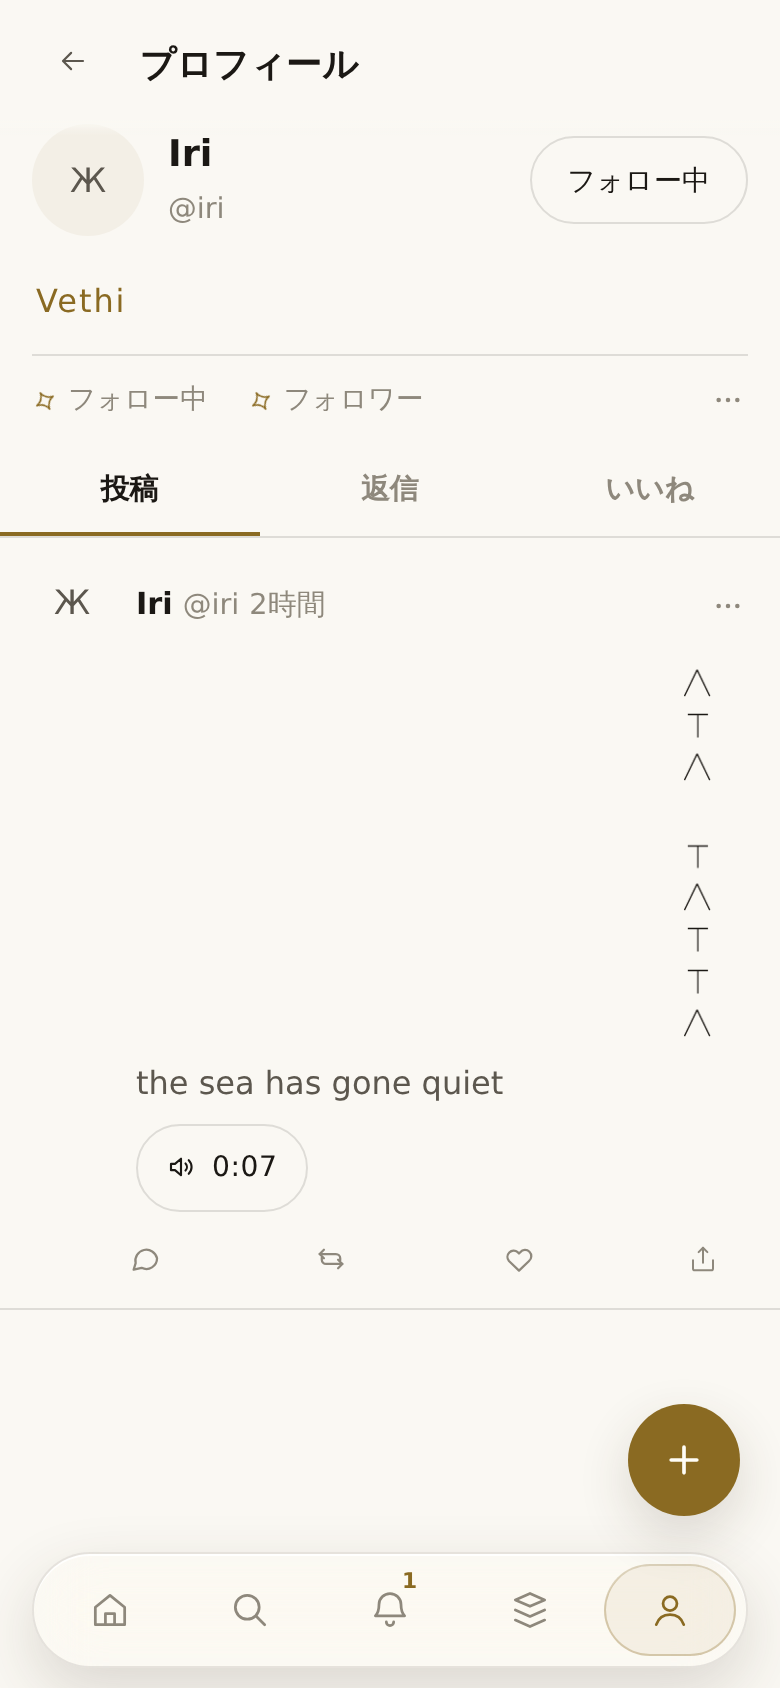
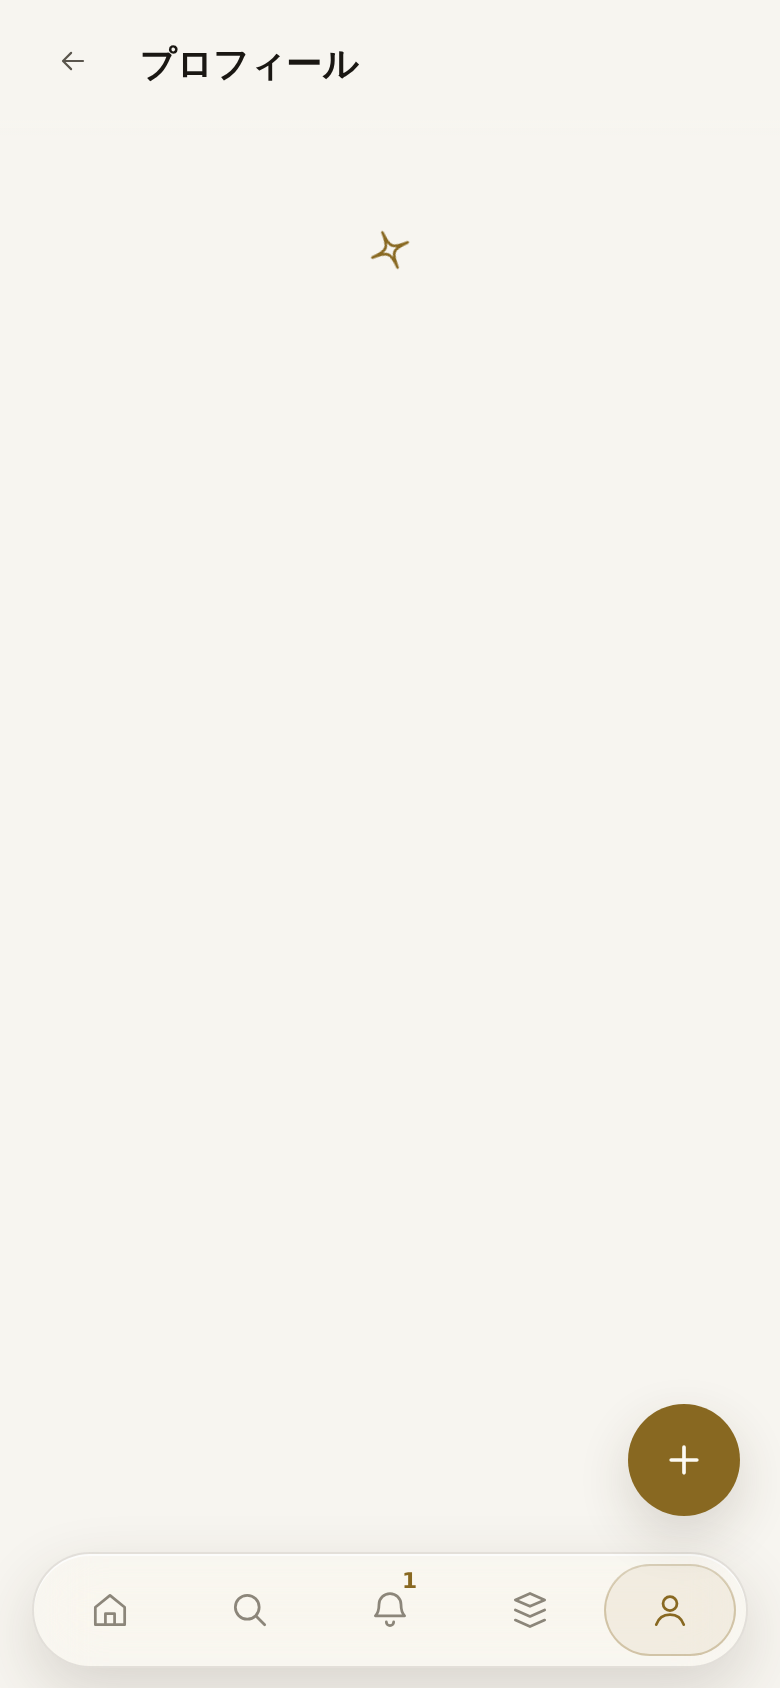
19: follow は金の塗りのまま、編集だけ枠

diff --git a/www/index.html b/www/index.html
@@ -722,15 +722,15 @@ canvas.pkc{width:34px;height:34px;display:block}
    and the second one set no `display`, so it inherited `flex` from this one
    and every word on the page stayed in a column beside the face. */
 .meedit{flex:0 0 auto;min-height:44px;padding:0 18px;border-radius:999px;
-        border:1px solid var(--gold);background:none;color:var(--gold);
+        border:1px solid var(--gold);background:var(--gold);color:var(--onGold);
         font-family:inherit;font-size:.88rem}
 .meedit:active{opacity:.85}
-/* 「編集のボタンだけ金◉なの気になる」→「枠だけで。」 OWNER 2026-09-05: this
-   is the profile's own Edit and, on somebody else's profile, Follow before
-   you do -- both the thing to press, both gold now in outline rather than
-   fill. Following IT is still the ground's own colour once you do, because
-   then it is a state and the press is the undo -- the two are told apart by
-   colour, gold against muted, and neither is filled any more. */
+/* 「フォロー前は金でいいんだけど何でそこ勝手に変えた」 OWNER 2026-09-05:
+   Follow, before you do, is the gold fill it has always been -- it is the one
+   thing to press on somebody else's page. The profile's own Edit is not that:
+   it wears `edit` and is the outline alone. Following is the ground's own
+   colour once you do, because then it is a state and the press is the undo. */
+.meedit.edit{background:none;color:var(--gold)}
 .meedit.on{background:none;color:var(--tx);border-color:var(--line)}
 .phandle{overflow:hidden;text-overflow:ellipsis;white-space:nowrap;min-width:0}
 /* The ... and the menu that hangs off it. The wrapper is what the menu is

diff --git a/www/me.js b/www/me.js
@@ -580,7 +580,7 @@ function meCard(){
         '<span class="phandle">@'+esc(meHandle())+'</span>'+
       '</div>'+
     '</div>'+
-    '<button class="meedit"' + DO('openMe') + '>'+esc(t('me.edit'))+'</button>'+
+    '<button class="meedit edit"' + DO('openMe') + '>'+esc(t('me.edit'))+'</button>'+
     '</div>'+
     (ME.bio? '<div class="pbio">'+esc(ME.bio)+'</div>' : '')+
     /* The language, between what somebody says about themselves and how many
